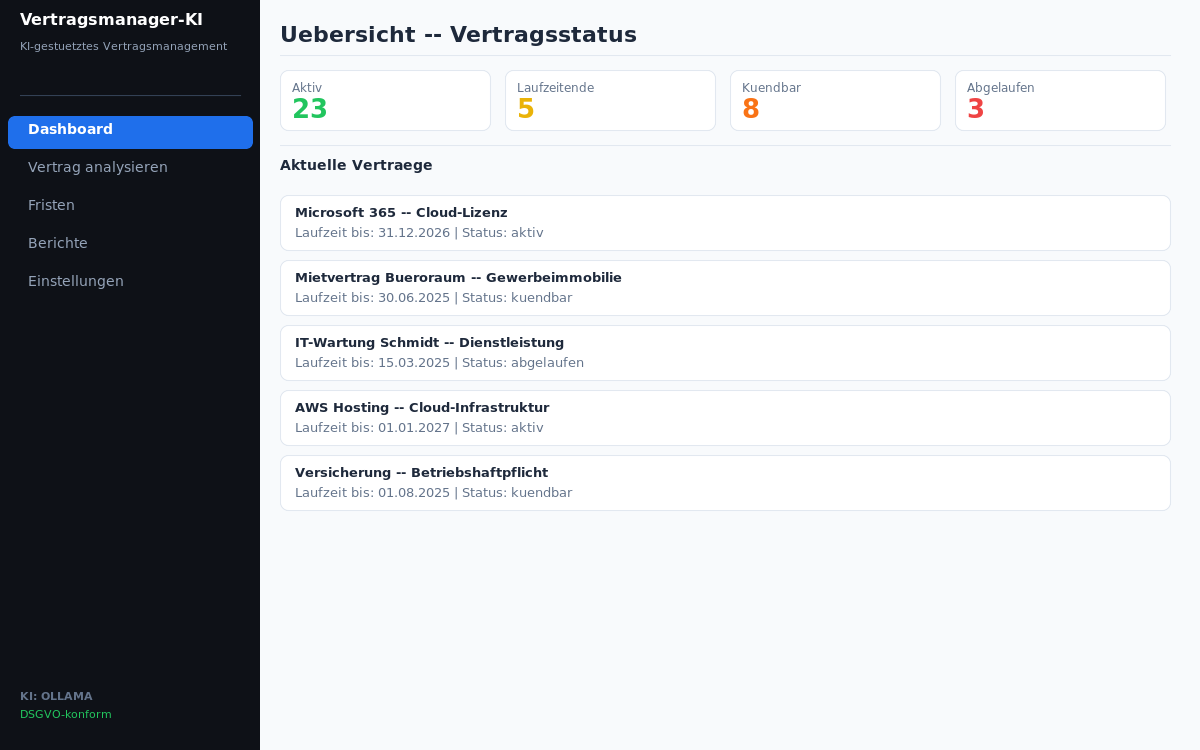
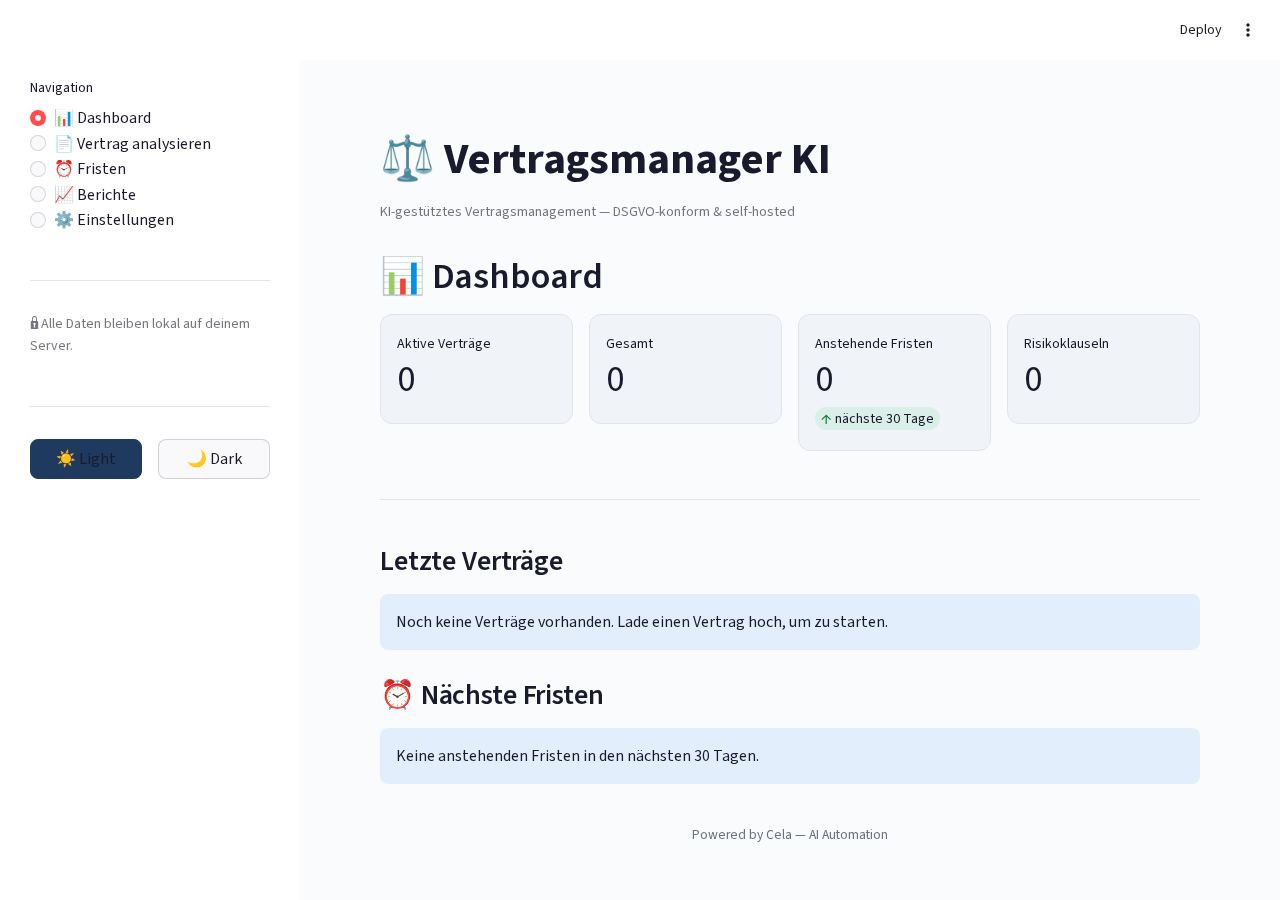
Update screenshots - new unified theme

diff --git a/theme/__init__.py b/theme/__init__.py
@@ -85,7 +85,7 @@ def theme_toggle_sidebar():
                 st.session_state.cela_theme = "light"
                 st.rerun()
         with c2:
-            if st.button("\ud83c\udf19 Dark", use_container_width=True,
+            if st.button("🌙 Dark", use_container_width=True,
                          type="primary" if get_theme() == "dark" else "secondary"):
                 st.session_state.cela_theme = "dark"
                 st.rerun()
